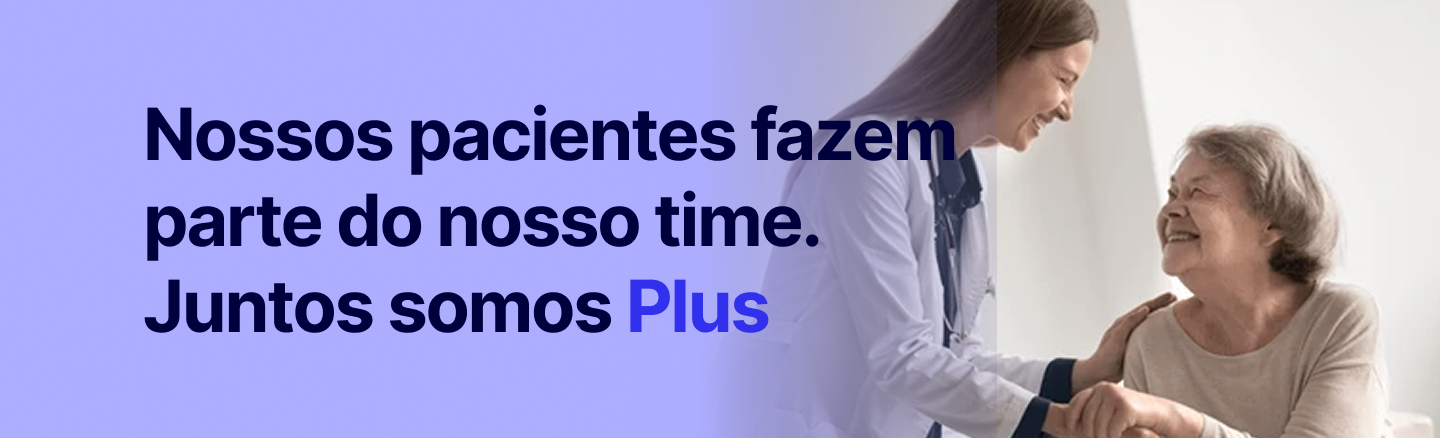
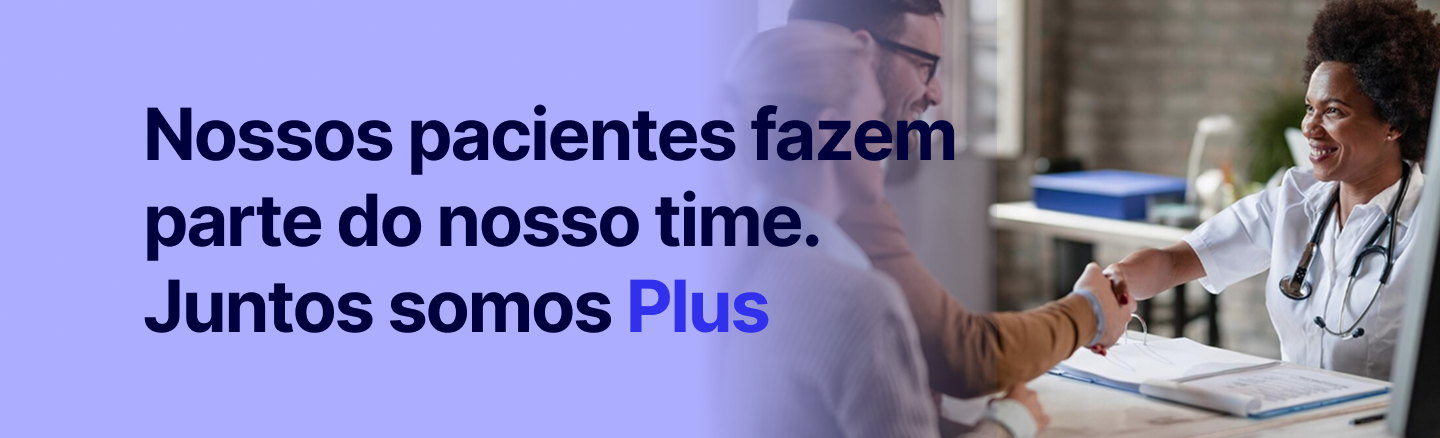
VidaPlus

diff --git a/src/components/contentpag/content.module.css b/src/components/contentpag/content.module.css
@@ -312,7 +312,7 @@
     background-size: cover;
     background-repeat: no-repeat;
     height: 20vh;
-    max-height: 150px;
+    max-height: 140px;
 
   }
 

diff --git a/src/page/pacientes/content.module.css b/src/page/pacientes/content.module.css
@@ -324,7 +324,7 @@
     background-size: cover;
     background-repeat: no-repeat;
     height: 20vh;
-    max-height: 150px;
+    max-height: 140px;
 
   }
 

diff --git a/src/page/qualidade/content.module.css b/src/page/qualidade/content.module.css
@@ -332,7 +332,7 @@
     background-size: cover;
     background-repeat: no-repeat;
     height: 20vh;
-    max-height: 150px;
+    max-height: 140px;
 
   }
 

diff --git a/src/page/servicos/content.module.css b/src/page/servicos/content.module.css
@@ -419,7 +419,7 @@
     background-size: cover;
     background-repeat: no-repeat;
     height:20vh;
-    max-height: 150px;
+    max-height: 140px;
 
   }
 
